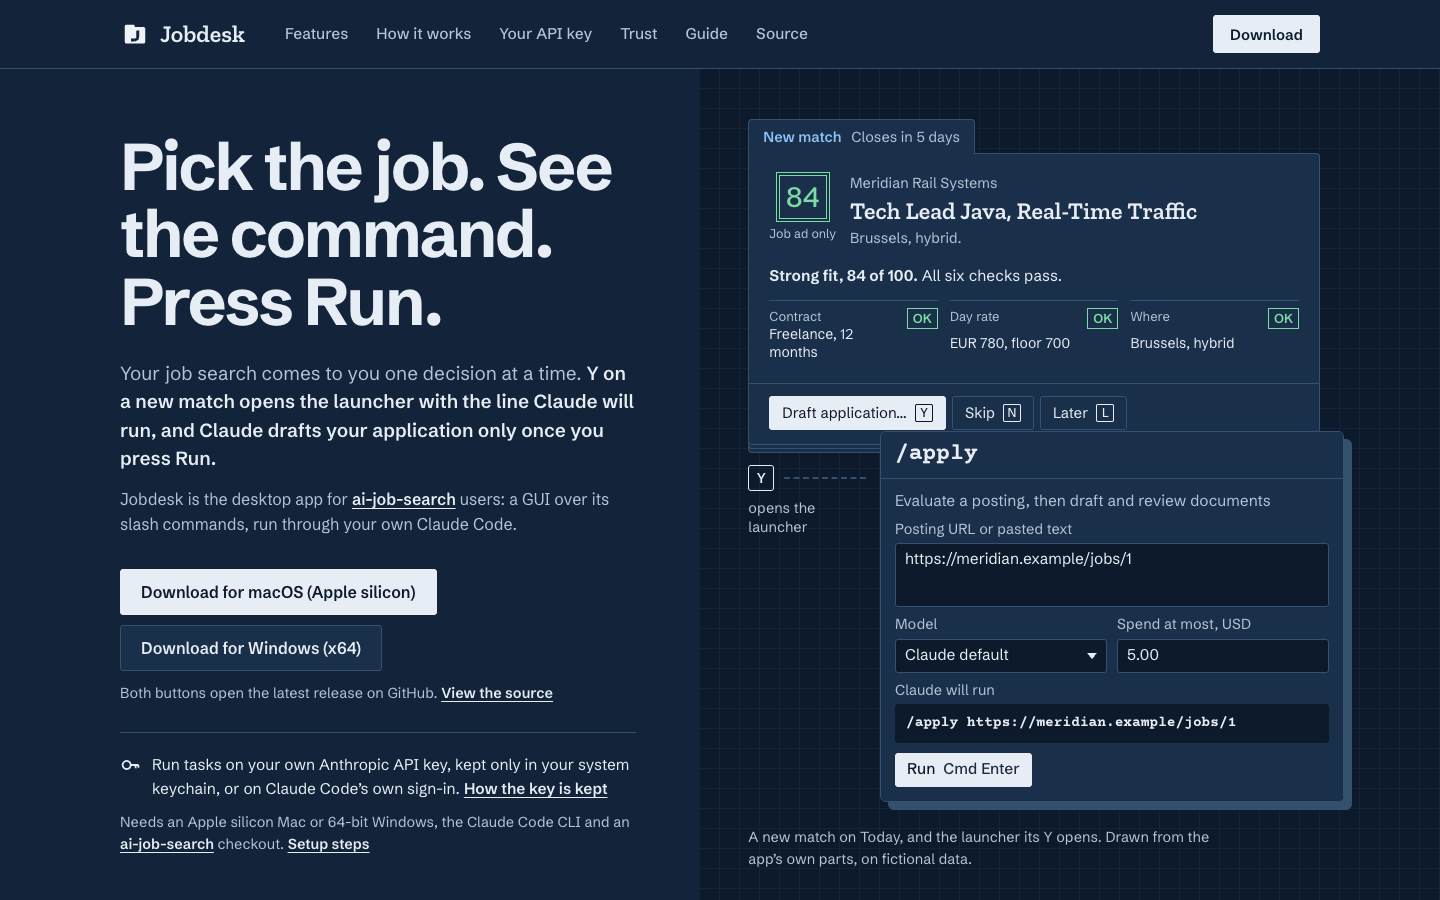
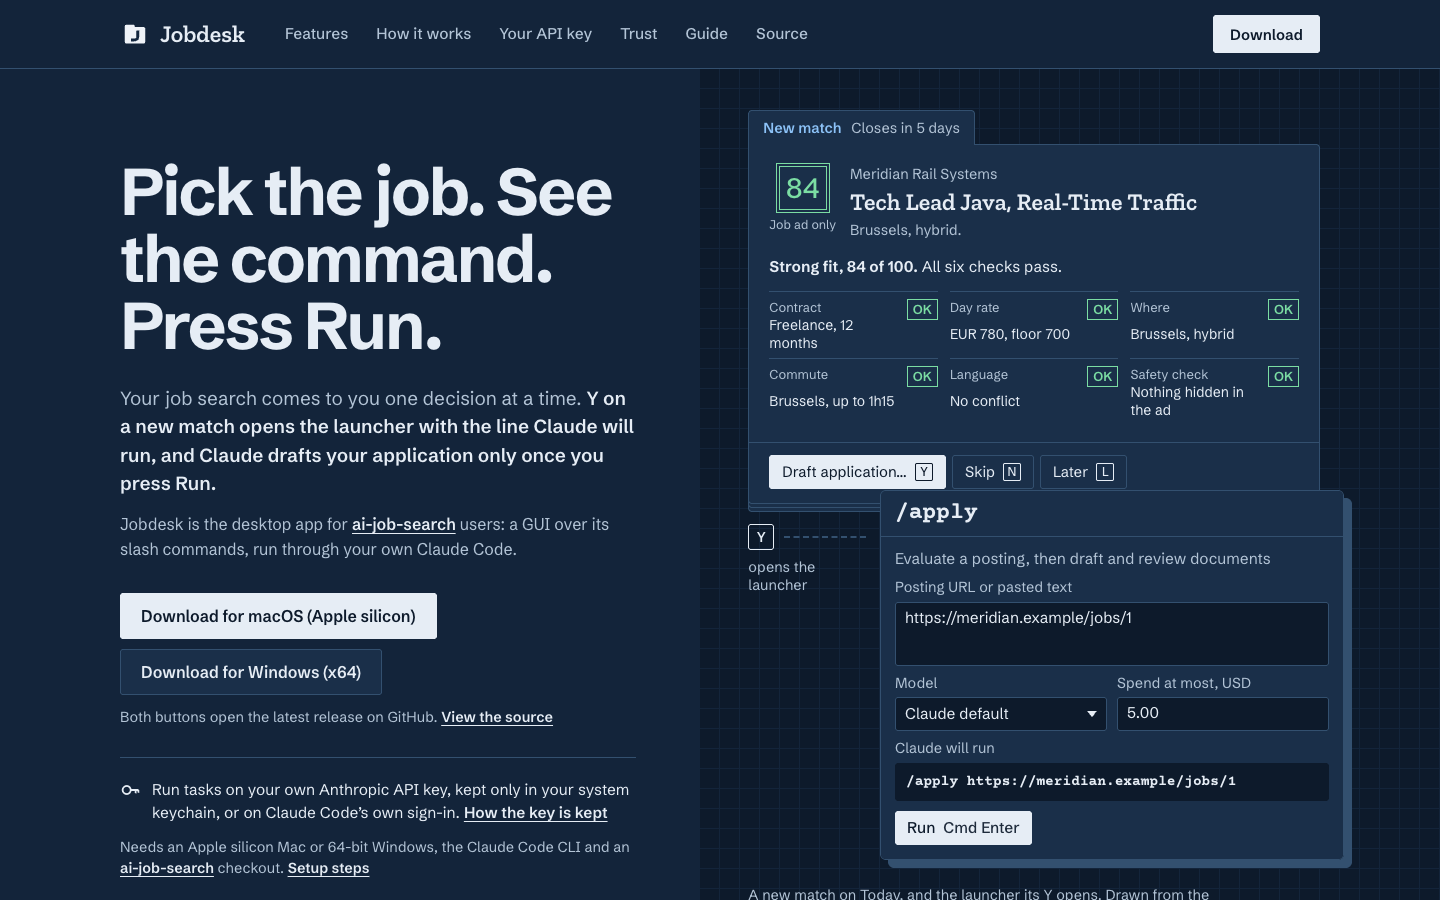
docs(mockups): mirror the hero animation and check count
Re-render the landing canvas PNGs and record the full page's new height, 5848.

diff --git a/mockups/landing/Landing.html b/mockups/landing/Landing.html
@@ -180,8 +180,8 @@ code, .cmd { font-family: var(--typed); font-weight: 700; }
   .tc { animation: rise .7s cubic-bezier(.2, .8, .25, 1) .1s both; }
   .desk .lx-wrap { animation: slide .6s cubic-bezier(.2, .8, .25, 1) .65s both; }
 }
-@keyframes rise { from { opacity: 0; transform: translateY(28px); } to { opacity: 1; transform: none; } }
-@keyframes slide { from { opacity: 0; transform: translateX(40px); } to { opacity: 1; transform: none; } }
+@keyframes rise { from { transform: translateY(28px); } to { transform: none; } }
+@keyframes slide { from { transform: translateX(40px); } to { transform: none; } }
 
 /* Sections. */
 .sec { padding: 128px 0 0; }
@@ -393,6 +393,9 @@ code, .cmd { font-family: var(--typed); font-weight: 700; }
                   <li><i>Contract</i><em>OK</em><span>Freelance, 12 months</span></li>
                   <li><i>Day rate</i><em>OK</em><span>EUR 780, floor 700</span></li>
                   <li><i>Where</i><em>OK</em><span>Brussels, hybrid</span></li>
+                  <li><i>Commute</i><em>OK</em><span>Brussels, up to 1h15</span></li>
+                  <li><i>Language</i><em>OK</em><span>No conflict</span></li>
+                  <li><i>Safety check</i><em>OK</em><span>Nothing hidden in the ad</span></li>
                 </ul>
               </div>
               <div class="tc-acts"><span class="tc-b pri">Draft application… <kbd>Y</kbd></span><span class="tc-b">Skip <kbd>N</kbd></span><span class="tc-b">Later <kbd>L</kbd></span></div>
@@ -463,7 +466,7 @@ code, .cmd { font-family: var(--typed); font-weight: 700; }
         <article class="cell"><div class="txt"><h3>Profile</h3><p>What Claude reads about you, topic by topic. Edit a block in place, and preview your CV PDFs with how fresh each is.</p></div></article>
       </div>
       <article class="cell c12 full">
-        <div class="txt"><h3>What your tasks cost</h3><p>Usage statistics show tokens, cache hits and each task’s cost, from Jobdesk’s own run logs on your computer. The cost is Claude Code’s estimate at API list price: on a Claude plan, it is not your bill. Set a monthly cap in Settings.</p></div>
+        <div class="txt"><h3>What your tasks cost</h3><p>Usage statistics show spend, tokens and cache hits, from Jobdesk’s own run logs on your computer. The cost is Claude Code’s estimate at API list price: on a Claude plan, it is not your bill. Set a monthly cap in Settings.</p></div>
         <div class="crop" style="--x: 527; --y: 196; --w: 1300; --h: 276">
           <img class="th-l" src="../../tests/snapshots/settings_usage_light.png" alt="Usage statistics for a fictional October: spent, tokens, cache hits and tasks, and the cost per application sent." loading="lazy">
           <img class="th-d" src="../../tests/snapshots/settings_usage_dark.png" alt="Usage statistics in the dark theme." loading="lazy">

diff --git a/mockups/README.md b/mockups/README.md
@@ -18,7 +18,7 @@ This folder holds HTML canvases of the current look: Postmark on a gridded desk,
 | `Settings.html` | `?state=usage\|usage-empty\|loading\|providers\|key-entry\|key-saved\|key-failed\|terms\|terms-missing\|terms-failed\|general\|appearance\|queue\|jobs\|defaults\|cap\|perms\|runtime\|data\|about\|about-checking\|about-failed\|about-update\|about-ready-waits\|search\|nav&theme=light\|dark` | 29 `Settings-*.png` | [settings](handoff/settings.md), [update](handoff/update.md) |
 | `Update.html` | `?state=available\|notes\|notes-ready\|downloading\|ready\|ready-busy\|failed\|bad-signature&theme=light\|dark` | 10 `Update-*.png` | [update](handoff/update.md) |
 | `Social.html` | none | `Social.png`, at 1280x640 | [social-preview](handoff/social-preview.md) |
-| `landing/Landing.html` | `?theme=light\|dark&motion=off`; phone through `landing/phone.html?theme=light&motion=off&h=1760&top=80` | 5 `landing/Landing-*.png`: `-hero` and `-hero-dark` at 1440x900, `-hero-1024` at 1024x900, `-phone` at 390x1760 and `-full` at 1440x5808 | [landing](handoff/landing.md) |
+| `landing/Landing.html` | `?theme=light\|dark&motion=off`; phone through `landing/phone.html?theme=light&motion=off&h=1760&top=80` | 5 `landing/Landing-*.png`: `-hero` and `-hero-dark` at 1440x900, `-hero-1024` at 1024x900, `-phone` at 390x1760 and `-full` at 1440x5848 | [landing](handoff/landing.md) |
 
 ## Handoff files
 

diff --git a/mockups/handoff/landing.md b/mockups/handoff/landing.md
@@ -25,7 +25,7 @@ Render with `scripts/render-canvas.sh --file-access`, so the bundled fonts and t
 - `Landing-hero.png` and `Landing-hero-dark.png`: `--size 1440,900`, `theme=light` or `theme=dark`, `motion=off`.
 - `Landing-hero-1024.png`: `--size 1024,900`, light.
 - `Landing-phone.png`, 390x1760, light, tall enough to show the whole hero and the top of the launcher: render `mockups/landing/phone.html` at `--size 500,1920` with `h=1760 top=80`, then `sips -c 1760 390`. Headless Chrome makes no window under 500px wide, so `phone.html` frames the page at 390 and passes `theme`, `motion` and `measure` through. It is a drawing aid, not part of the site.
-- `Landing-full.png`: the whole page at `--size 1440,5808`, the page's own height in a window that tall (`?measure=1` reads it; the hero grows to 860px when the window is taller than 928px, so measure at the full height). Measure again when the page changes length.
+- `Landing-full.png`: the whole page at `--size 1440,5848`, the page's own height in a window that tall (`?measure=1` reads it; the hero grows to 860px when the window is taller than 928px, so measure at the full height). Measure again when the page changes length.
 
 Checked at 1440, 1280, 1024, 768, 560 and 390, light and dark: the page's scroll width equals the window's.
 
